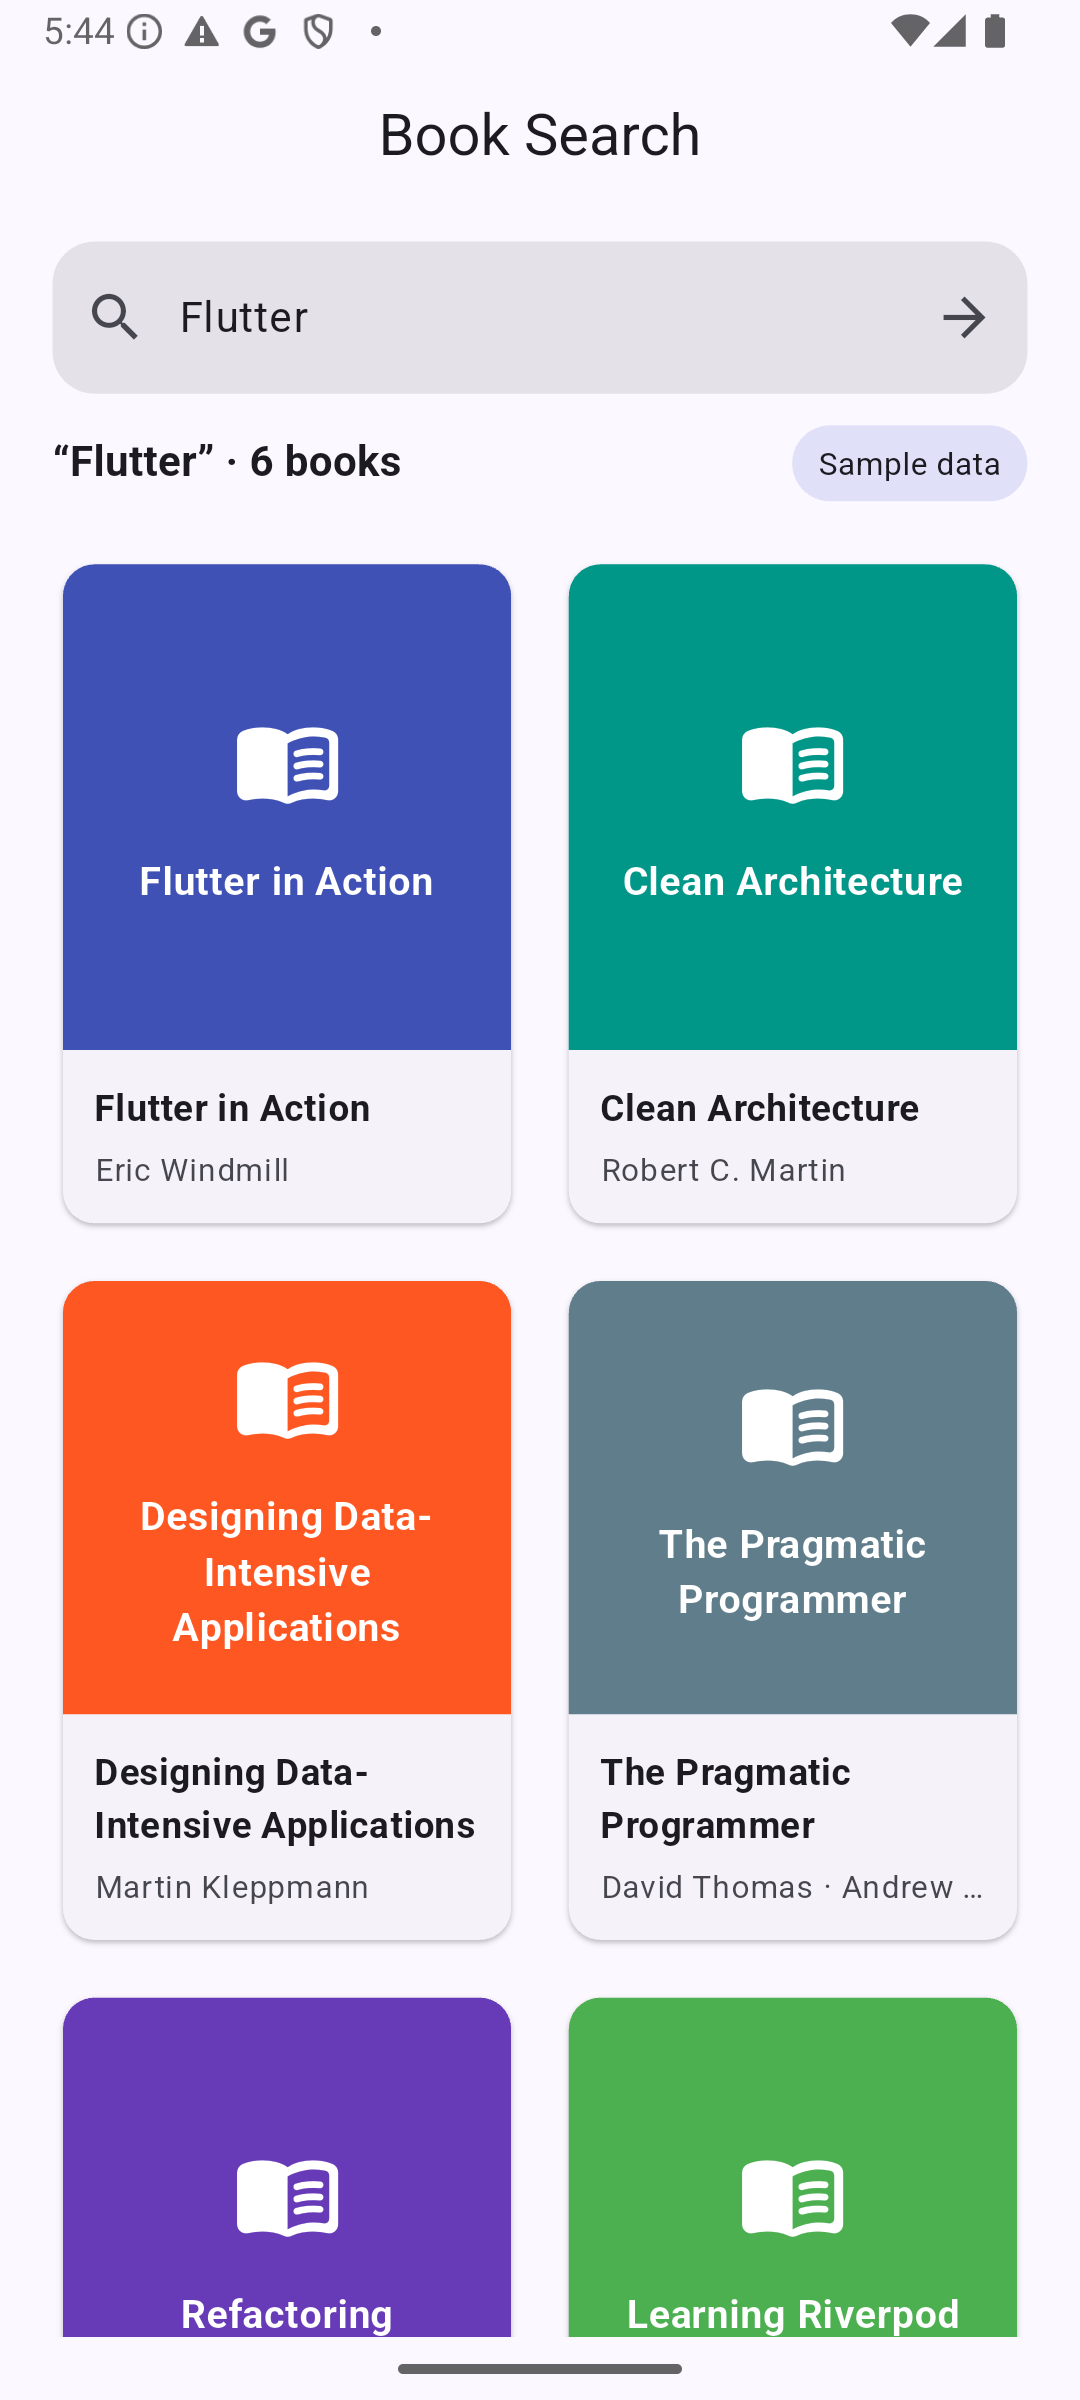
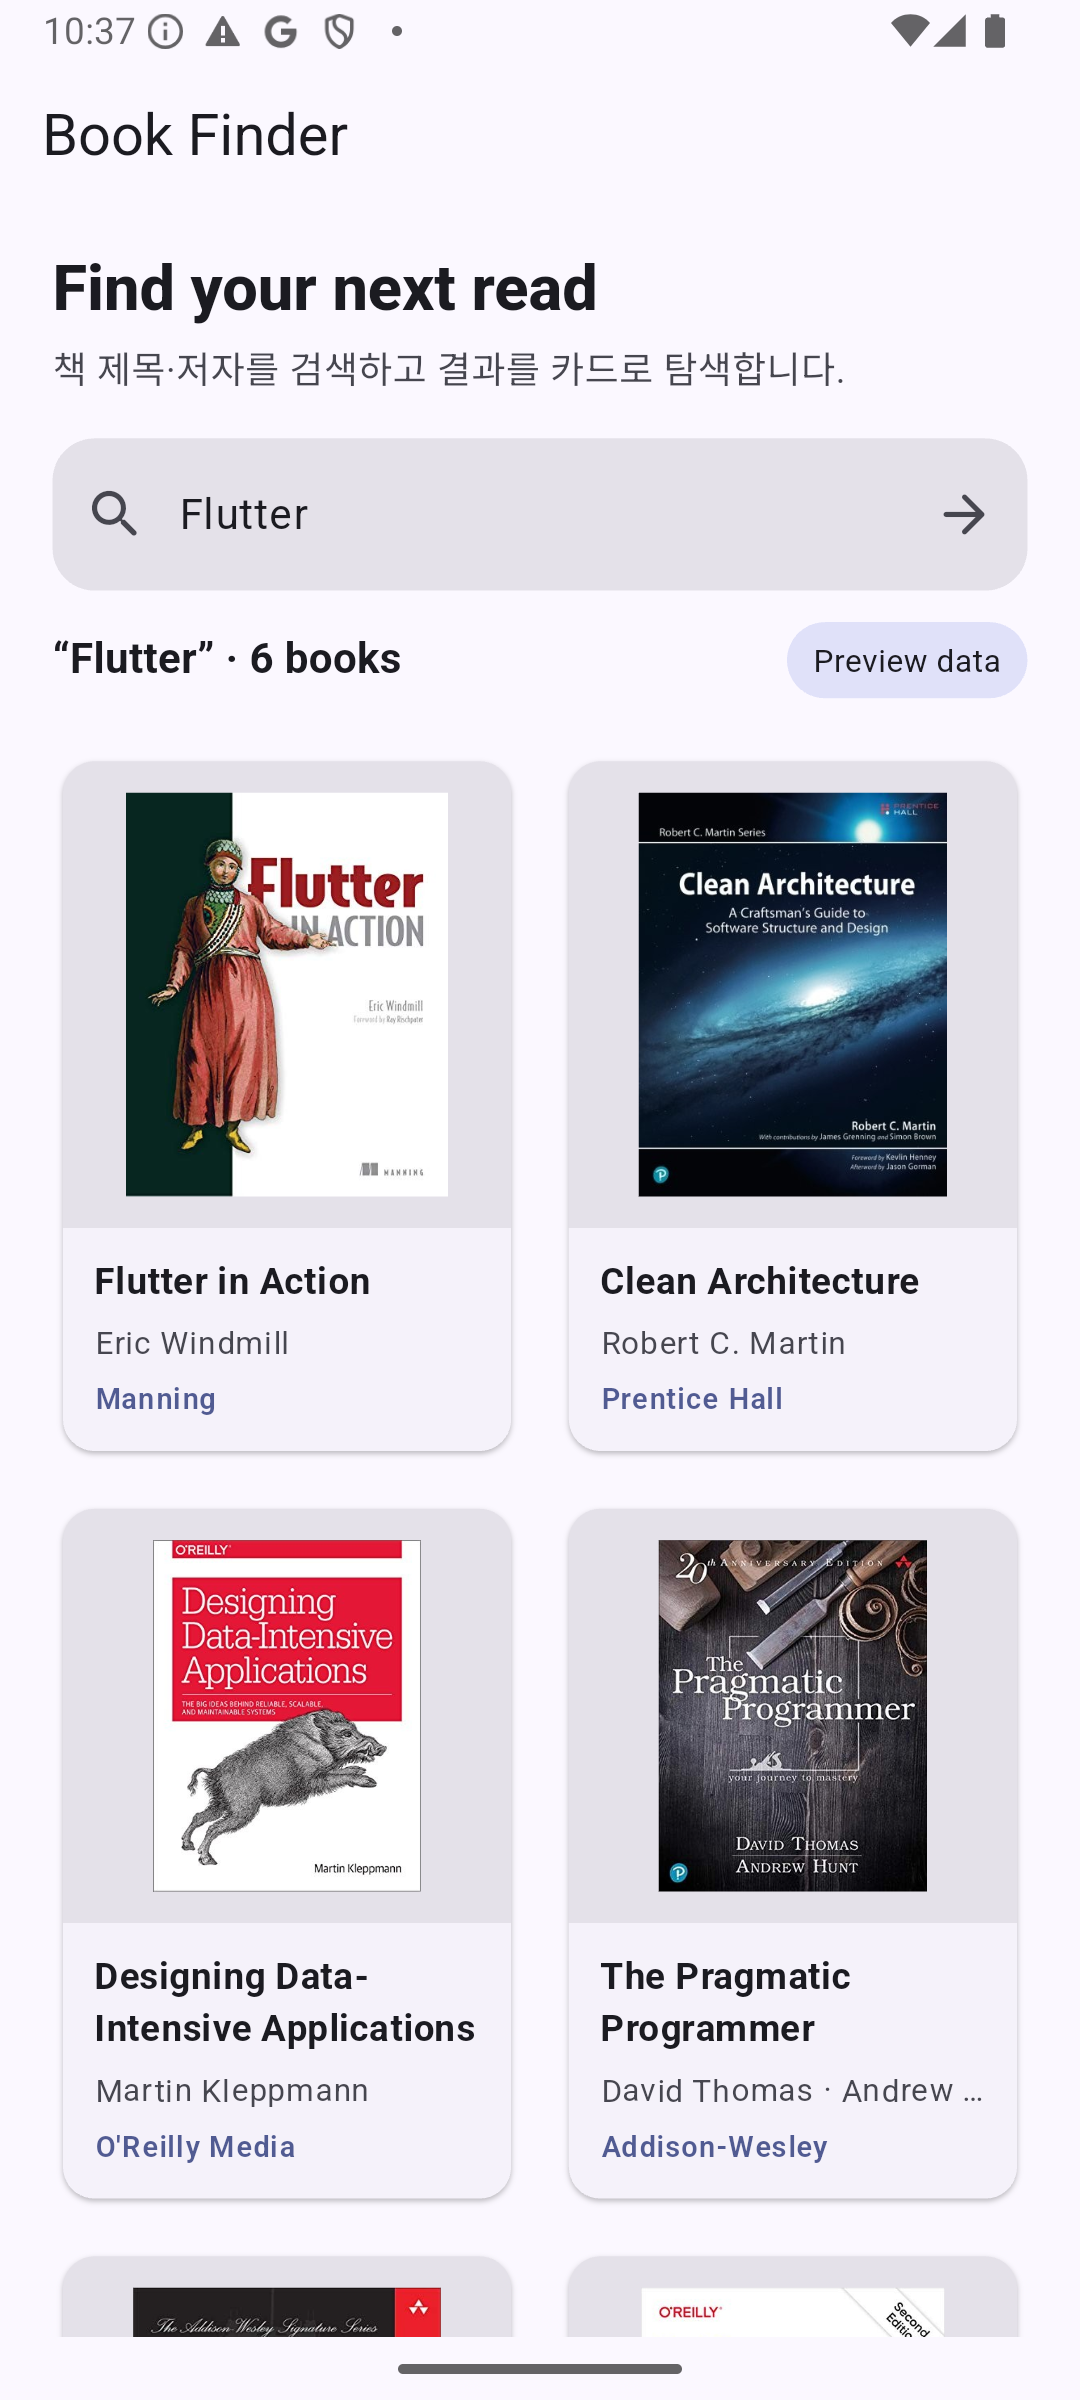
Polish Flutter book finder preview

diff --git a/lib/ui/pages/home/home_page.dart b/lib/ui/pages/home/home_page.dart
@@ -34,14 +34,38 @@ class _HomePageState extends ConsumerState<HomePage> {
       onTap: () => FocusScope.of(context).unfocus(),
       child: Scaffold(
         appBar: AppBar(
-          title: const Text('Book Search'),
-          centerTitle: true,
+          title: const Text('Book Finder'),
+          centerTitle: false,
         ),
         body: SafeArea(
           child: Column(
             children: [
               Padding(
-                padding: const EdgeInsets.fromLTRB(20, 12, 20, 12),
+                padding: const EdgeInsets.fromLTRB(20, 14, 20, 4),
+                child: Align(
+                  alignment: Alignment.centerLeft,
+                  child: Text(
+                    'Find your next read',
+                    style: Theme.of(context).textTheme.headlineSmall?.copyWith(
+                          fontWeight: FontWeight.w800,
+                        ),
+                  ),
+                ),
+              ),
+              Padding(
+                padding: const EdgeInsets.fromLTRB(20, 0, 20, 8),
+                child: Align(
+                  alignment: Alignment.centerLeft,
+                  child: Text(
+                    '책 제목·저자를 검색하고 결과를 카드로 탐색합니다.',
+                    style: Theme.of(context).textTheme.bodyMedium?.copyWith(
+                          color: Theme.of(context).colorScheme.onSurfaceVariant,
+                        ),
+                  ),
+                ),
+              ),
+              Padding(
+                padding: const EdgeInsets.fromLTRB(20, 8, 20, 12),
                 child: TextField(
                   maxLines: 1,
                   controller: textEditingController,
@@ -49,11 +73,11 @@ class _HomePageState extends ConsumerState<HomePage> {
                   textInputAction: TextInputAction.search,
                   decoration: InputDecoration(
                     hintText: '책 제목이나 저자를 검색하세요',
-                    prefixIcon: const Icon(Icons.search),
+                    prefixIcon: const Icon(Icons.search_rounded),
                     suffixIcon: IconButton(
                       tooltip: '검색',
                       onPressed: () => search(textEditingController.text),
-                      icon: const Icon(Icons.arrow_forward),
+                      icon: const Icon(Icons.arrow_forward_rounded),
                     ),
                     filled: true,
                     border: OutlineInputBorder(
@@ -88,7 +112,7 @@ class _HomePageState extends ConsumerState<HomePage> {
                           borderRadius: BorderRadius.circular(999),
                         ),
                         child: const Text(
-                          'Sample data',
+                          'Preview data',
                           style: TextStyle(fontSize: 12),
                         ),
                       ),
@@ -103,7 +127,7 @@ class _HomePageState extends ConsumerState<HomePage> {
                   itemCount: state.books.length,
                   gridDelegate: const SliverGridDelegateWithFixedCrossAxisCount(
                     crossAxisCount: 2,
-                    childAspectRatio: 0.69,
+                    childAspectRatio: 0.66,
                     crossAxisSpacing: 14,
                     mainAxisSpacing: 14,
                   ),
@@ -147,6 +171,7 @@ class _BookCard extends StatelessWidget {
   Widget build(BuildContext context) {
     return Card(
       clipBehavior: Clip.antiAlias,
+      elevation: 1,
       child: InkWell(
         onTap: onTap,
         child: Column(
@@ -156,7 +181,7 @@ class _BookCard extends StatelessWidget {
               child: _BookCover(book: book, index: index),
             ),
             Padding(
-              padding: const EdgeInsets.all(12),
+              padding: const EdgeInsets.fromLTRB(12, 10, 12, 12),
               child: Column(
                 crossAxisAlignment: CrossAxisAlignment.start,
                 children: [
@@ -173,6 +198,16 @@ class _BookCard extends StatelessWidget {
                     overflow: TextOverflow.ellipsis,
                     style: Theme.of(context).textTheme.bodySmall?.copyWith(
                           color: Theme.of(context).colorScheme.onSurfaceVariant,
+                        ),
+                  ),
+                  const SizedBox(height: 5),
+                  Text(
+                    book.publisher,
+                    maxLines: 1,
+                    overflow: TextOverflow.ellipsis,
+                    style: Theme.of(context).textTheme.labelSmall?.copyWith(
+                          color: Theme.of(context).colorScheme.primary,
+                          fontWeight: FontWeight.w600,
                         ),
                   ),
                 ],
@@ -194,10 +229,14 @@ class _BookCover extends StatelessWidget {
   @override
   Widget build(BuildContext context) {
     if (book.image.isNotEmpty) {
-      return Image.network(
-        book.image,
-        fit: BoxFit.cover,
-        errorBuilder: (_, __, ___) => _placeholder(context),
+      return Container(
+        color: Theme.of(context).colorScheme.surfaceContainerHighest,
+        padding: const EdgeInsets.all(12),
+        child: Image.network(
+          book.image,
+          fit: BoxFit.contain,
+          errorBuilder: (_, __, ___) => _placeholder(context),
+        ),
       );
     }
     return _placeholder(context);

diff --git a/lib/data/repository/book_repository.dart b/lib/data/repository/book_repository.dart
@@ -23,7 +23,7 @@ class BookRepository {
     Book(
       title: 'Flutter in Action',
       link: 'https://search.shopping.naver.com/book/home',
-      image: '',
+      image: 'https://covers.openlibrary.org/b/isbn/9781617296147-L.jpg',
       author: 'Eric Windmill',
       discount: '',
       publisher: 'Manning',
@@ -34,7 +34,7 @@ class BookRepository {
     Book(
       title: 'Clean Architecture',
       link: 'https://search.shopping.naver.com/book/home',
-      image: '',
+      image: 'https://covers.openlibrary.org/b/isbn/9780134494166-L.jpg',
       author: 'Robert C. Martin',
       discount: '',
       publisher: 'Prentice Hall',
@@ -45,7 +45,7 @@ class BookRepository {
     Book(
       title: 'Designing Data-Intensive Applications',
       link: 'https://search.shopping.naver.com/book/home',
-      image: '',
+      image: 'https://covers.openlibrary.org/b/isbn/9781449373320-L.jpg',
       author: 'Martin Kleppmann',
       discount: '',
       publisher: "O'Reilly Media",
@@ -56,7 +56,7 @@ class BookRepository {
     Book(
       title: 'The Pragmatic Programmer',
       link: 'https://search.shopping.naver.com/book/home',
-      image: '',
+      image: 'https://covers.openlibrary.org/b/isbn/9780135957059-L.jpg',
       author: 'David Thomas · Andrew Hunt',
       discount: '',
       publisher: 'Addison-Wesley',
@@ -67,7 +67,7 @@ class BookRepository {
     Book(
       title: 'Refactoring',
       link: 'https://search.shopping.naver.com/book/home',
-      image: '',
+      image: 'https://covers.openlibrary.org/b/isbn/9780134757599-L.jpg',
       author: 'Martin Fowler',
       discount: '',
       publisher: 'Addison-Wesley',
@@ -76,15 +76,15 @@ class BookRepository {
       description: '동작을 보존하면서 코드 구조를 개선하는 리팩터링 패턴 모음.',
     ),
     Book(
-      title: 'Learning Riverpod',
+      title: 'Head First Design Patterns',
       link: 'https://search.shopping.naver.com/book/home',
-      image: '',
-      author: 'Portfolio sample',
+      image: 'https://covers.openlibrary.org/b/isbn/9781492078005-L.jpg',
+      author: 'Eric Freeman · Elisabeth Robson',
       discount: '',
-      publisher: 'Sample data',
-      pubdate: '20260820',
-      isbn: 'SAMPLE-RIVERPOD',
-      description: '검색·상태관리 UI를 안정적으로 보여주기 위한 portfolio sample item.',
+      publisher: "O'Reilly Media",
+      pubdate: '20201229',
+      isbn: '9781492078005',
+      description: '객체지향 설계 패턴을 시각적인 예제와 함께 설명하는 입문서.',
     ),
   ];
 

diff --git a/test/widget_test.dart b/test/widget_test.dart
@@ -8,8 +8,9 @@ void main() {
     await tester.pumpWidget(const ProviderScope(child: MyApp()));
     await tester.pumpAndSettle();
 
-    expect(find.text('Book Search'), findsOneWidget);
-    expect(find.text('Sample data'), findsOneWidget);
+    expect(find.text('Book Finder'), findsOneWidget);
+    expect(find.text('Preview data'), findsOneWidget);
+    expect(find.text('Find your next read'), findsOneWidget);
     expect(find.text('Flutter in Action'), findsWidgets);
     expect(find.text('Clean Architecture'), findsWidgets);
   });
